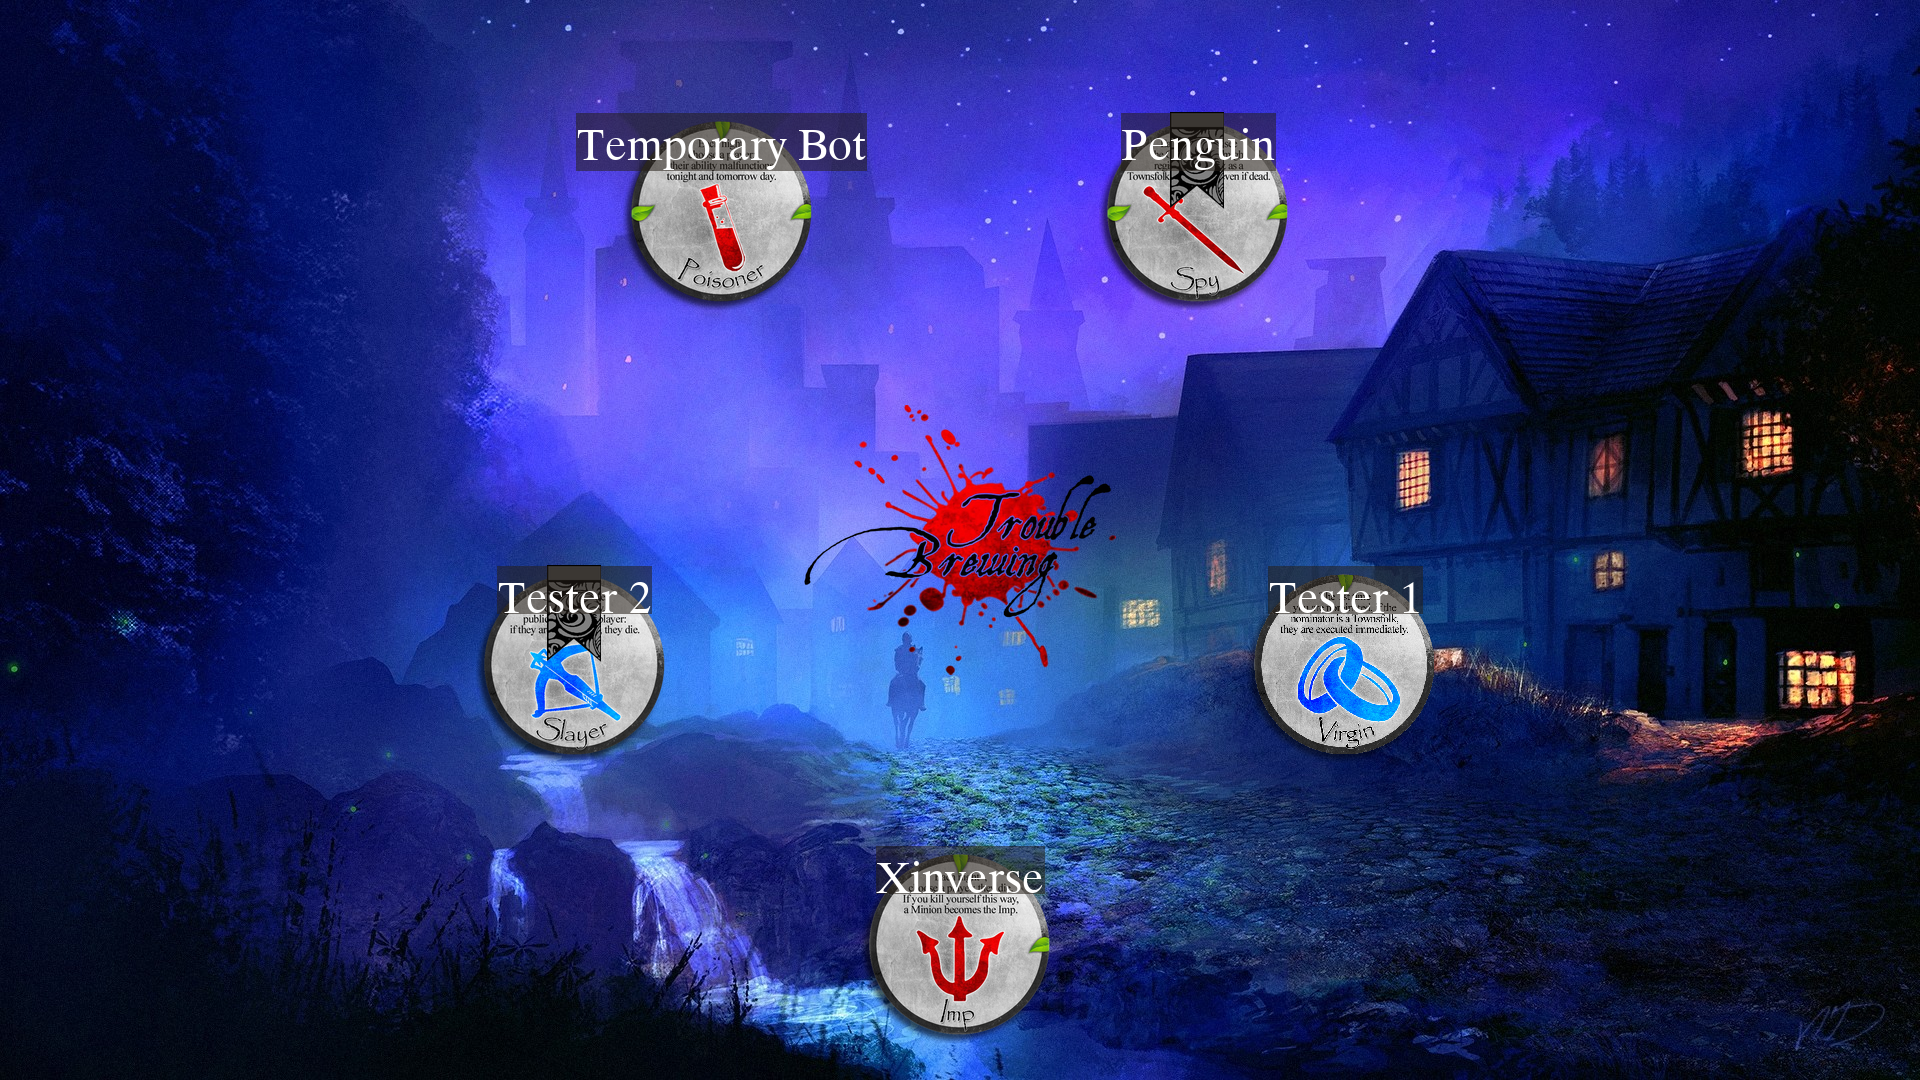
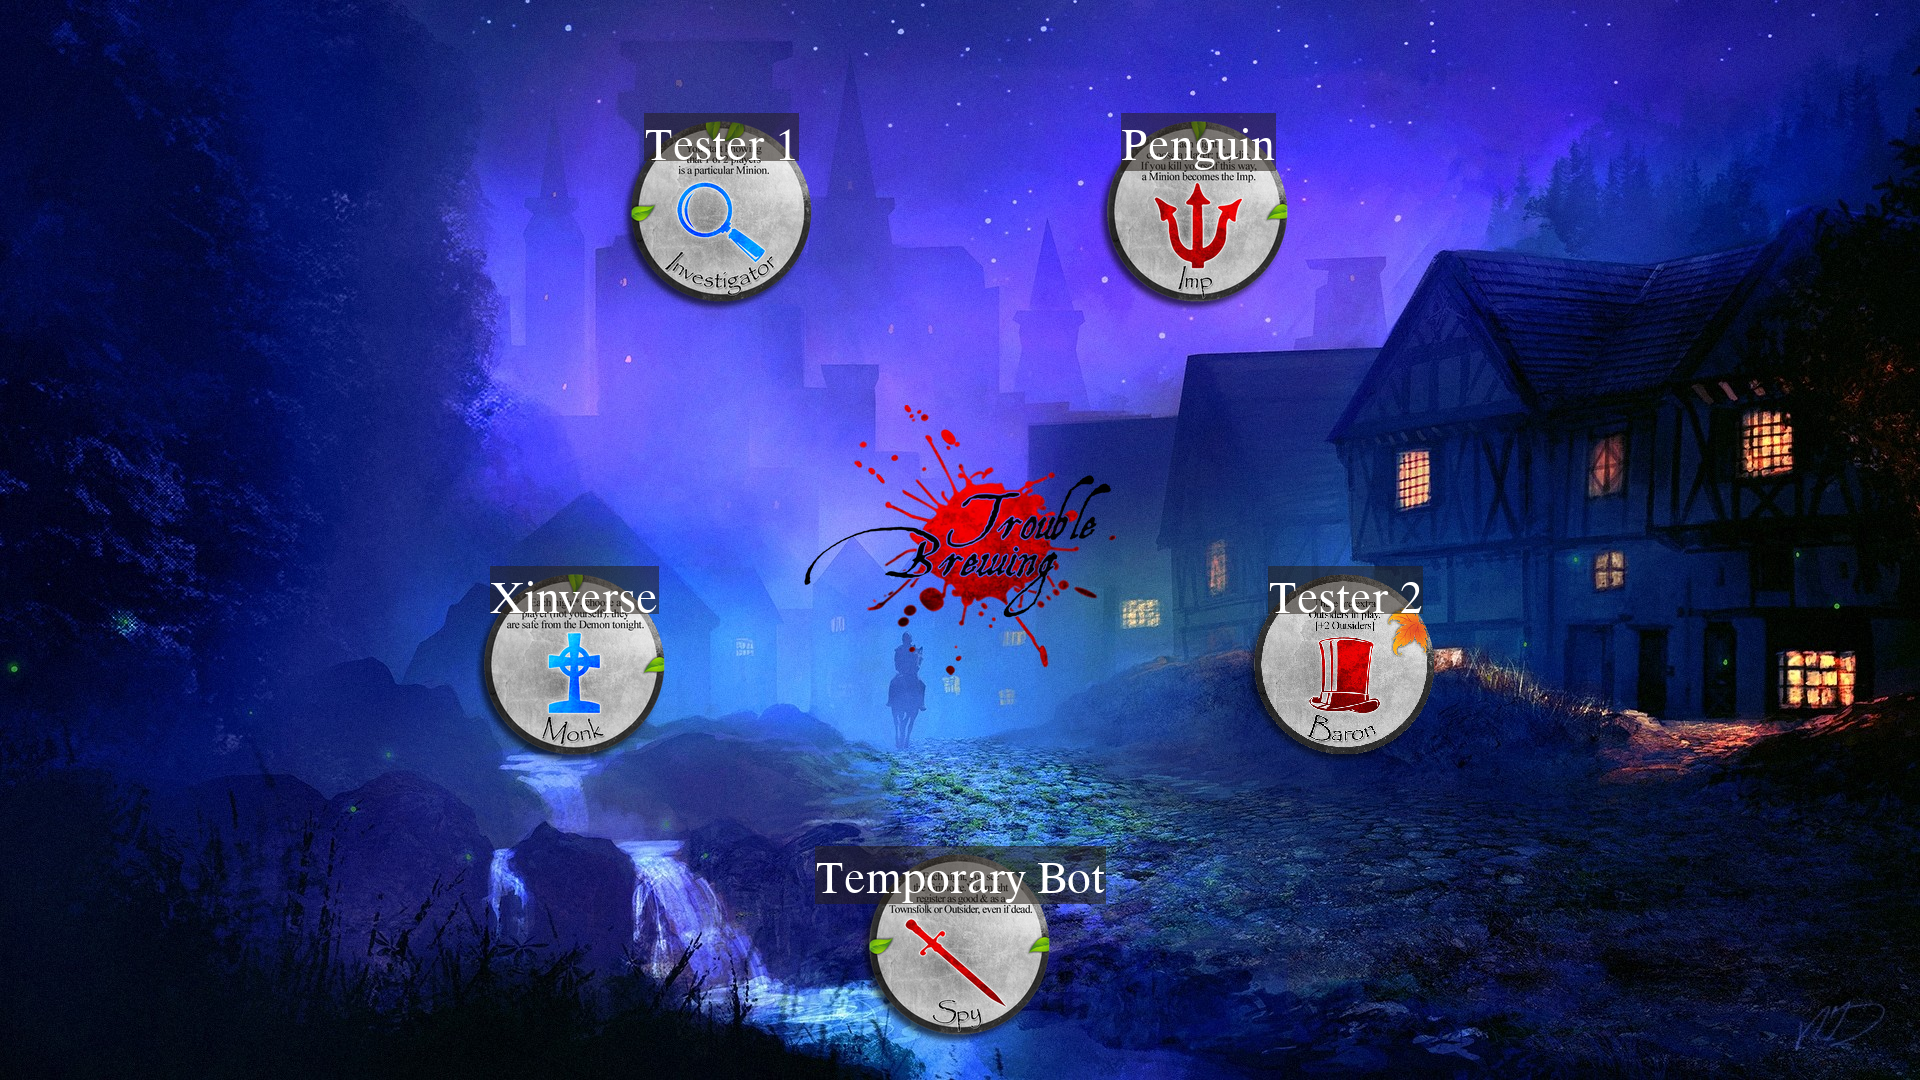
implemented soldier and monk abilities

diff --git a/botc/Game.py b/botc/Game.py
@@ -197,11 +197,15 @@ class Game(GameMeta):
       self._sitting_order = tuple()  # tuple object (for immutability)
       self._chrono = GameChrono()
       self._setup = Setup()
-      self.chopping_block = None  # ChoppingBlock object
-      self.today_executed_player = None  # Player object
-      self.night_deaths = []  # List of player objects
       self.gameloop = master_game_loop
       self.winners = None  # botc.Team object
+
+      # Temporary day data
+      self.chopping_block = None  # ChoppingBlock object
+      self.today_executed_player = None  # Player object
+
+      # Temporary night data
+      self.night_deaths = []  # List of player objects
    
    @property
    def nb_players(self):
@@ -247,6 +251,17 @@ class Game(GameMeta):
    def is_night(self):
       return self.current_phase == Phase.night
    
+   def init_temporary_day_data(self):
+      """Initialize temporary day data. To be called at the start of the day"""
+      # Temporary day data
+      self.chopping_block = None  # ChoppingBlock object
+      self.today_executed_player = None  # Player object
+   
+   def init_temporary_night_data(self):
+      """Initialize temporary night data. To be called at the start of the night"""
+      # Temporary night data
+      self.night_deaths = []  # List of player objects
+      
    def create_sitting_order_stats_string(self):
       """Create a stats board:
 
@@ -573,7 +588,7 @@ class Game(GameMeta):
       # Unload extensions
       globvars.client.unload_extension("botc.commands.abilities")
       globvars.client.unload_extension("botc.commands.townhall")
-      globvars.client.unload_extension("botc.commands.botc_debug_commands")
+      globvars.client.unload_extension("botc.commands.debug")
       # Load conflicting commands
       for extension in CONFLICTING_CMDS:
          globvars.client.load_extension(extension)
@@ -601,6 +616,9 @@ class Game(GameMeta):
       # Initialize the master switches at the start of a phase
       import botc.switches
       botc.switches.init_switches()
+
+      # Initialize the temporary night data set
+      self.init_temporary_night_data()
 
       # Stop all tasks of the day phase
       if nomination_loop.is_running():
@@ -652,24 +670,60 @@ class Game(GameMeta):
       import botc.switches
       botc.switches.init_switches()
 
-      self.chopping_block = None
-      self.today_executed_player = None
+      # Initialize the temporary day data set
+      self.init_temporary_day_data()
 
       # Move the chrono forward by one phase
       self._chrono.next()
 
       # Prepare the phase announcement message
+      # Night 1 end is Storyteller death
       if self._chrono.cycle == 1 and self._chrono.phase == Phase.day:
-         death_message = storyteller_death
+         final_death_message = storyteller_death
+
+      # Not night 1 end, we look at the death list
       else:
-         death_message = ""
+
+         night_deaths_names = [player.game_nametag for player in self.night_deaths]
+         night_deaths_names = list(set(night_deaths_names))
+
+         if len(night_deaths_names) == 0:
+            death_messages = strings["lore"]["night_death"]["zero"]["outputs"]
+            death_weights = strings["lore"]["night_death"]["zero"]["weights"]
+            death_msg = random.choices(
+                  death_messages,
+                  weights = death_weights
+            )
+            final_death_message = death_msg[0]
+
+         elif len(night_deaths_names) == 1:
+            death_messages = strings["lore"]["night_death"]["singular"]["outputs"]
+            death_weights = strings["lore"]["night_death"]["singular"]["weights"]
+            death_msg = random.choices(
+                  death_messages,
+                  weights = death_weights
+            )
+            final_death_message = death_msg[0]
+            final_death_message = final_death_message.format(night_deaths_names[0])
+
+         else:
+            death_messages = strings["lore"]["night_death"]["plural"]["outputs"]
+            death_weights = strings["lore"]["night_death"]["plural"]["weights"]
+            death_msg = random.choices(
+                  death_messages,
+                  weights = death_weights
+            )
+            final_death_message = death_msg[0]
+            final_death_message = final_death_message.format(", ".join(night_deaths_names))
+
       embed = discord.Embed(
-         description = daybreak + " " + death_message,
+         description = daybreak + " " + final_death_message,
          color = CARD_DAY
       )
       embed.set_footer(text = copyrights_str)
       embed.set_image(url = daybreak_image)
       embed.timestamp = datetime.datetime.utcnow()
+
       await botutils.send_lobby(message = "", embed = embed)
 
    def generate_role_set(self):

diff --git a/botc/Character.py b/botc/Character.py
@@ -360,30 +360,12 @@ class Character:
     
     # -------------------- Event "Listeners" --------------------
 
-    async def on_demon_attack(self, demon_player, attacked_player):
-        """Function that runs after the player gets attacked by the demon at night.
-        Override by child classes and/or other classes inherited by child classes.
-        """
-        pass
-
     async def on_being_nominated(self, nominator_player, nominated_player):
         """Function that runs after the player is nominated.
         Override by child classes and/or other classes inherited by child classes.
         """
         from botc.gameloops import nomination_loop
         nomination_loop.start(globvars.master_state.game, nominator_player, nominated_player)
-
-    async def on_night_death(self, dead_player):
-        """Function that runs after the player dies at night, for any reason.
-        Override by child classes and/or other classes inherited by child classes.
-        """
-        pass
-
-    async def on_day_lynching(self, lynched_player):
-        """Function that runs after the player dies by lynching at day.
-        Override by child classes and/or other classes inherited by child classes.
-        """
-        pass
     
     # -------------------- Character ABILITIES --------------------
 

diff --git a/botc/gamemodes/troublebrewing/Monk.py b/botc/gamemodes/troublebrewing/Monk.py
@@ -107,3 +107,22 @@ class Monk(Townsfolk, TroubleBrewing, Character, RecurringAction):
 
         if not monk_player.is_droisoned() and monk_player.is_alive():
             protected_player.add_status_effect(SafetyFromDemon(monk_player, protected_player, 2))
+    
+    async def process_night_ability(self, player):
+        """Process night actions for the monk character.
+        @player : the Monk player (Player object)
+        """
+        
+        phase = globvars.master_state.game._chrono.phase_id
+        action = player.action_grid.retrieve_an_action(phase)
+        # The monk has submitted an action. We call the execution function immediately
+        if action:
+            assert action.action_type == ActionTypes.protect, f"Wrong action type {action} in monk"
+            targets = action.target_player
+            protected_player = targets[0]
+            await self.exec_protect(player, protected_player)
+        # The imp has not submitted an action. We will not randomize the action because this 
+        # is a priviledged ability
+        else:
+            pass
+

diff --git a/botc/gameloops.py b/botc/gameloops.py
@@ -386,10 +386,9 @@ async def day_loop(game):
     # Start day
     await game.make_daybreak()
     # Base day length
-    # base_day_length = math.sqrt(game.nb_players)
-    # base_day_length = math.ceil(base_day_length)
-    # base_day_length = base_day_length * 60
-    base_day_length = 15
+    base_day_length = math.sqrt(2 * game.nb_players)
+    base_day_length = math.ceil(base_day_length)
+    base_day_length = base_day_length * 60
     base_day_loop.start(base_day_length)
 
     for _ in range(base_day_length):
@@ -433,6 +432,7 @@ async def day_loop(game):
                 if game.chopping_block:
                     if game.chopping_block.player_about_to_die:
                         await game.chopping_block.player_about_to_die.exec_real_death()
+                        game.today_executed_player = game.chopping_block.player_about_to_die
                         msg = botutils.BotEmoji.grimoire + " " + execution.format(
                             game.chopping_block.player_about_to_die.game_nametag, 
                             game.chopping_block.nb_votes

diff --git a/botc/gamemodes/troublebrewing/Soldier.py b/botc/gamemodes/troublebrewing/Soldier.py
@@ -1,7 +1,8 @@
 """Contains the Soldier Character class"""
 
 import json 
-from botc import Townsfolk, Character, NonRecurringAction
+from botc import Townsfolk, Character, NonRecurringAction, SafetyFromDemon, \
+    Storyteller
 from ._utils import TroubleBrewing, TBRole
 
 with open('botc/gamemodes/troublebrewing/character_text.json') as json_file: 
@@ -67,3 +68,11 @@ class Soldier(Townsfolk, TroubleBrewing, Character, NonRecurringAction):
             msg += f"\n{scroll_emoji} {addendum}"
             
         return msg
+    
+    async def process_night_ability(self, player):
+        """Process night actions for the soldier character.
+        @player : the Soldier player (Player object)
+        """
+
+        if not player.is_droisoned() and player.is_alive():
+            player.add_status_effect(SafetyFromDemon(Storyteller(), player, 2))

diff --git a/botc/gamemodes/troublebrewing/Investigator.py b/botc/gamemodes/troublebrewing/Investigator.py
@@ -85,7 +85,7 @@ class Investigator(Townsfolk, TroubleBrewing, Character, NonRecurringAction):
         two_player_list = self.get_two_possible_minions()
         registered_minion_type = two_player_list[2]
         link = registered_minion_type.art_link
-        assert registered_minion_type.category == Category.minion, "Investigator did not receive a minion character"
+        assert registered_minion_type.category == Category.minion, f"Investigator received {registered_minion_type}"
 
         # Get rid of the last element (the minion type)
         two_player_list.pop()

diff --git a/botc/gamemodes/troublebrewing/Imp.py b/botc/gamemodes/troublebrewing/Imp.py
@@ -174,6 +174,7 @@ class Imp(Demon, TroubleBrewing, Character, RecurringAction):
                 return
             try:
                 await killed_player.exec_real_death()
+                globvars.master_state.game.night_deaths.append(killed_player)
             except AlreadyDead:
                 pass
     

diff --git a/README.md b/README.md
@@ -7,7 +7,7 @@ The copyrights to the BoTC game are owned by the Pandemonium Institute.
 
 ## Author
 
-* **Xinverse#4011** - *Initial work* - [Xinverse](https://github.com/Xinverse)
+* **Xinverse#4011** - *Developer* - [Xinverse](https://github.com/Xinverse)
 * **Picowchew#1559** - *Contributor* - [Picowchew](https://github.com/Picowchew)
 
 ## License
